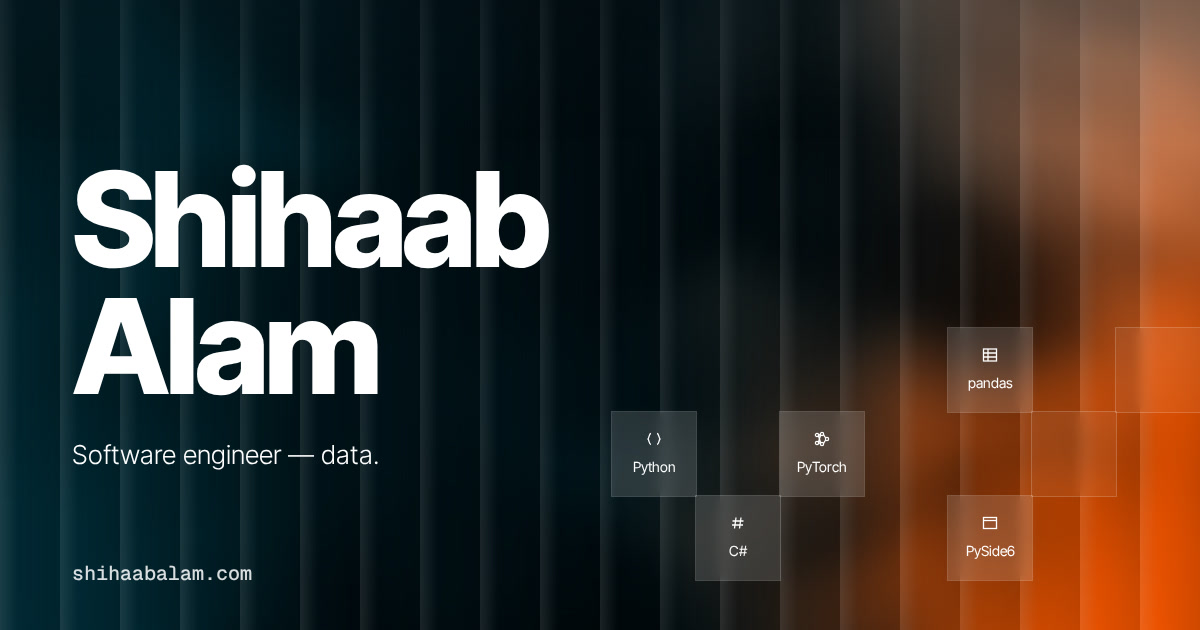
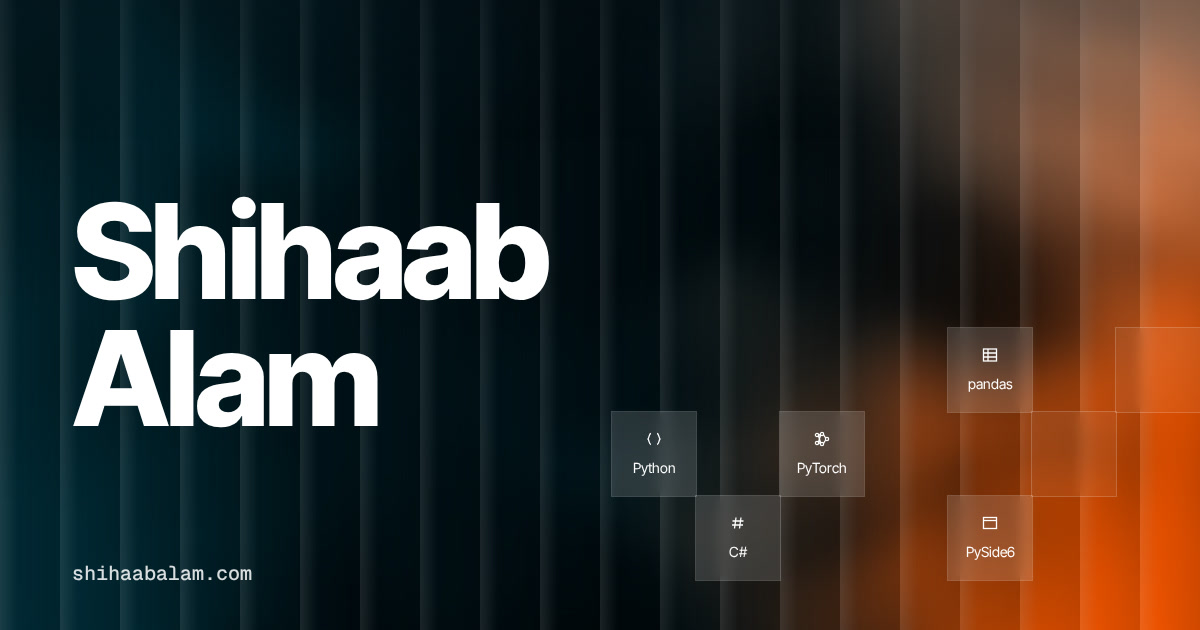
Remove the hero tagline; re-render the link-preview image to match

diff --git a/assets/site.css b/assets/site.css
@@ -232,6 +232,7 @@ a { color: inherit; text-decoration: none; }
 }
 .hero .sub { font-size: clamp(18px, 1.6vw, 21px); font-weight: 300; margin: 28px 0 32px; max-width: 560px; }
 .hero .ctas { display: flex; flex-wrap: wrap; gap: 12px; }
+.hero h1 + .ctas { margin-top: clamp(32px, 4vw, 48px); }
 .hero-foot {
   position: relative;
   margin-top: auto;

diff --git a/index.html b/index.html
@@ -79,7 +79,6 @@
 
   <div class="hero-content">
     <h1>Shihaab<br>Alam</h1>
-    <p class="sub">Software engineer &mdash; data.</p>
     <div class="ctas">
       <a class="btn btn-white" href="#work">See my work <svg class="chev"><use href="#chev"/></svg></a>
       <a class="btn btn-ghost" href="https://github.com/shihaab453">GitHub</a>
